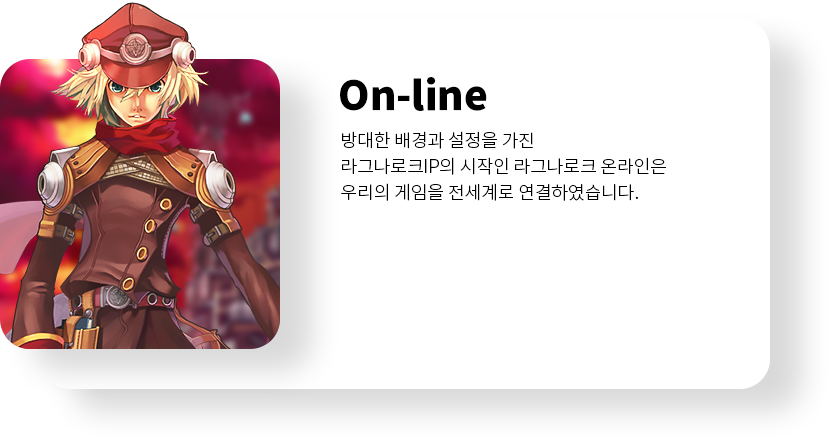
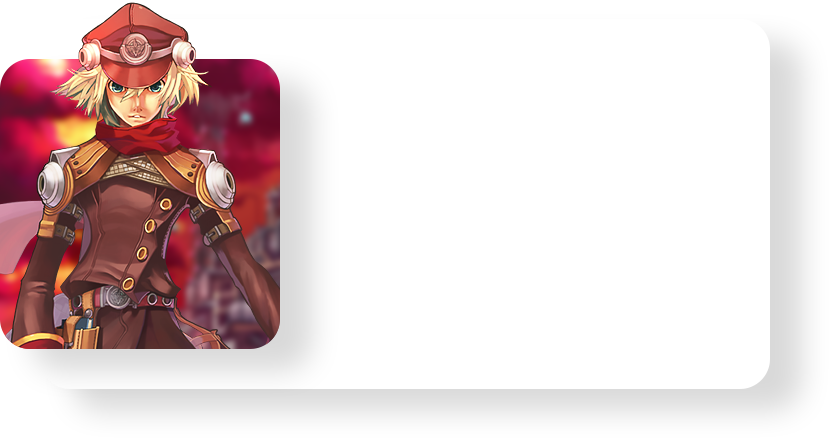
용범님꺼 2차
용범님꺼 2차

Changed region(s): [[0.392, 0.2968, 0.8142, 0.4749], [0.392, 0.1781, 0.6031, 0.2671]]

diff --git a/InteractiveWEB/01/gsapIntro/example-dragon/css/common.scss b/InteractiveWEB/01/gsapIntro/example-dragon/css/common.scss
@@ -19,6 +19,13 @@
   font-style: normal;
 }
 
+@font-face {
+  font-family: 'GmarketSansBold';
+  src: url('https://cdn.jsdelivr.net/gh/projectnoonnu/noonfonts_2001@1.1/GmarketSansBold.woff') format('woff');
+  font-weight: normal;
+  font-style: normal;
+}
+
 
 
 body { /* overflow: hidden;*/  }
@@ -77,7 +84,7 @@ section {
     // div.block4 { width: 100%; }
     
     div.blockFinal { margin-bottom: 0; width: 400px; height: 300px; position: absolute; left: 50%; top: 50%; transform: translate(-50%, -50%); z-index: 8;
-      h1 { font-family: "GmarketSansMedium"; font-size: 70px; position: absolute; z-index: 9; font-weight: 1000; left: 50%; top: 30%; transform: translate(-50%,-50%); text-align: center; line-height: 1.0; opacity: 0; }
+      h1 { font-family: "GmarketSansBold"; font-size: 70px; position: absolute; z-index: 9; font-weight: 1000; left: 50%; top: 30%; transform: translate(-50%,-50%); text-align: center; line-height: 1.0; opacity: 0; }
       p { font-size: 24px; position: absolute; z-index: 9; font-weight: 500; left: 50%; top: 41%; transform: translate(-50%, -50%); text-align: center; line-height: 1.2;  opacity: 0; }
       img.contentWrapImg { width: 100%; height: 100%; }
 
@@ -86,12 +93,21 @@ section {
       }
       &--onlineBox{
         position: absolute; top: 65%; left: 50%; transform: translate(-50%, -50%) scale(1); z-index: 5; opacity: 0; transform-origin: 50% 50%;
+        h3 { opacity: 1; text-align: left; left: 41%; transform: translate(0, 0); top: 15%; font-size: 41px; line-height: 1.4; position: absolute; font-weight: bold; z-index: 2;  }
+        p { opacity: 1; text-align: left; left: 41%; transform: translate(0,0); top: 29%; font-size: 18px; line-height: 1.4; }
+        a.btn-more { left: 41%; position: absolute; top: 50%; }
       }
       &--mobileBox{
-        position: absolute; top: 65%; left: 95%; transform: translate(-50%, -50%) scale(0.7); z-index: 5; opacity: 0; transform-origin: 50% 50%;
+        position: absolute; top: 65%; left: 95%; transform: translate(-50%, -50%) scale(0.6); z-index: 5; opacity: 0; transform-origin: 50% 50%;
+        h3 { opacity: 1; text-align: left; left: 41%; transform: translate(0, 0); top: 15%; font-size: 41px; line-height: 1.4; position: absolute; font-weight: bold; z-index: 2;  }
+        p { opacity: 1; text-align: left; left: 41%; transform: translate(0,0); top: 29%; font-size: 18px; line-height: 1.4; }
+        a.btn-more { left: 41%; position: absolute; top: 50%; }
       }
       &--ipTVBox{
-        position: absolute; top: 65%; left: 130%; transform: translate(-50%, -50%) scale(0.7); z-index: 5; opacity: 0; transform-origin: 50% 50%;
+        position: absolute; top: 65%; left: 130%; transform: translate(-50%, -50%) scale(0.6); z-index: 5; opacity: 0; transform-origin: 50% 50%;
+        h3 { opacity: 1; text-align: left; left: 41%; transform: translate(0, 0); top: 12%; font-size: 41px; line-height: 1.4; position: absolute; font-weight: bold; z-index: 2;  }
+        p { opacity: 1; text-align: left; left: 41%; transform: translate(0,0); top: 27%; font-size: 18px; line-height: 1.4; }
+        a.btn-more { left: 41%; position: absolute; top: 50%; }
       }
 
       &--dim {    
@@ -141,7 +157,7 @@ section {
 
   .sectionRecruit { 
 
-    &--title { font-family: "GmarketSansMedium"; font-size: 70px; position: relative; z-index: 9; font-weight: 1000; left: 0%; top: 0%; transform: translate(0%,0%); text-align: center; line-height: 1.0; opacity: 1; }
+    &--title { font-family: "GmarketSansBold"; font-size: 70px; position: relative; z-index: 9; font-weight: 1000; left: 0%; top: 0%; transform: translate(0%,0%); text-align: center; line-height: 1.0; opacity: 1; }
     &--explanation { font-size: 24px; position: relative; margin-top: 30px; z-index: 9; font-weight: 500; left: 0%; top: 0%; transform: translate(0%, 0%); text-align: center; line-height: 1.2;  opacity: 1; }
     
     &__buttonWrap {

diff --git a/InteractiveWEB/01/gsapIntro/example-dragon/css/common.css b/InteractiveWEB/01/gsapIntro/example-dragon/css/common.css
@@ -16,6 +16,12 @@
   font-weight: normal;
   font-style: normal;
 }
+@font-face {
+  font-family: "GmarketSansBold";
+  src: url("https://cdn.jsdelivr.net/gh/projectnoonnu/noonfonts_2001@1.1/GmarketSansBold.woff") format("woff");
+  font-weight: normal;
+  font-style: normal;
+}
 body { /* overflow: hidden;*/ }
 
 section {
@@ -151,7 +157,7 @@ section .mainNextContent div.blockFinal {
   z-index: 8;
 }
 section .mainNextContent div.blockFinal h1 {
-  font-family: "GmarketSansMedium";
+  font-family: "GmarketSansBold";
   font-size: 70px;
   position: absolute;
   z-index: 9;
@@ -195,23 +201,101 @@ section .mainNextContent div.blockFinal--onlineBox {
   opacity: 0;
   transform-origin: 50% 50%;
 }
+section .mainNextContent div.blockFinal--onlineBox h3 {
+  opacity: 1;
+  text-align: left;
+  left: 41%;
+  transform: translate(0, 0);
+  top: 15%;
+  font-size: 41px;
+  line-height: 1.4;
+  position: absolute;
+  font-weight: bold;
+  z-index: 2;
+}
+section .mainNextContent div.blockFinal--onlineBox p {
+  opacity: 1;
+  text-align: left;
+  left: 41%;
+  transform: translate(0, 0);
+  top: 29%;
+  font-size: 18px;
+  line-height: 1.4;
+}
+section .mainNextContent div.blockFinal--onlineBox a.btn-more {
+  left: 41%;
+  position: absolute;
+  top: 50%;
+}
 section .mainNextContent div.blockFinal--mobileBox {
   position: absolute;
   top: 65%;
   left: 95%;
-  transform: translate(-50%, -50%) scale(0.7);
+  transform: translate(-50%, -50%) scale(0.6);
   z-index: 5;
   opacity: 0;
   transform-origin: 50% 50%;
+}
+section .mainNextContent div.blockFinal--mobileBox h3 {
+  opacity: 1;
+  text-align: left;
+  left: 41%;
+  transform: translate(0, 0);
+  top: 15%;
+  font-size: 41px;
+  line-height: 1.4;
+  position: absolute;
+  font-weight: bold;
+  z-index: 2;
+}
+section .mainNextContent div.blockFinal--mobileBox p {
+  opacity: 1;
+  text-align: left;
+  left: 41%;
+  transform: translate(0, 0);
+  top: 29%;
+  font-size: 18px;
+  line-height: 1.4;
+}
+section .mainNextContent div.blockFinal--mobileBox a.btn-more {
+  left: 41%;
+  position: absolute;
+  top: 50%;
 }
 section .mainNextContent div.blockFinal--ipTVBox {
   position: absolute;
   top: 65%;
   left: 130%;
-  transform: translate(-50%, -50%) scale(0.7);
+  transform: translate(-50%, -50%) scale(0.6);
   z-index: 5;
   opacity: 0;
   transform-origin: 50% 50%;
+}
+section .mainNextContent div.blockFinal--ipTVBox h3 {
+  opacity: 1;
+  text-align: left;
+  left: 41%;
+  transform: translate(0, 0);
+  top: 12%;
+  font-size: 41px;
+  line-height: 1.4;
+  position: absolute;
+  font-weight: bold;
+  z-index: 2;
+}
+section .mainNextContent div.blockFinal--ipTVBox p {
+  opacity: 1;
+  text-align: left;
+  left: 41%;
+  transform: translate(0, 0);
+  top: 27%;
+  font-size: 18px;
+  line-height: 1.4;
+}
+section .mainNextContent div.blockFinal--ipTVBox a.btn-more {
+  left: 41%;
+  position: absolute;
+  top: 50%;
 }
 section .mainNextContent div.blockFinal--dim {
   display: none;
@@ -354,7 +438,7 @@ section .mainNextContent--item20 {
   z-index: 3;
 }
 section .sectionRecruit--title {
-  font-family: "GmarketSansMedium";
+  font-family: "GmarketSansBold";
   font-size: 70px;
   position: relative;
   z-index: 9;

diff --git a/InteractiveWEB/01/gsapIntro/example-dragon/js/main.js b/InteractiveWEB/01/gsapIntro/example-dragon/js/main.js
@@ -10,7 +10,7 @@ gsap.registerPlugin(ScrollTrigger, ScrollSmoother, MotionPathPlugin);
 
 // 스크롤 스무터 구동.
 let smoother = ScrollSmoother.create({
-    smooth: 3,   
+    smooth: 1,   
     effects: true
   });
 
@@ -116,14 +116,6 @@ init();
     .from(".mainNextContent--item14", { top : "60%", ease : "none",},"<")
     .to(".block4", { top : "-89%", ease : "none",},"<")
     
-    
-    // .to(".block3", { top : "-129%", ease : "none",},"<+=0.5")
-    // .to(".block4", { top : "-110%", ease : "none",},"<")
-
-    // .set(".blockFinal", {  xPercent:-50, yPercent:-50, },"<")
-
-
-    // .set(".block4", { width : "100%", height :"100vh", duration: 0.5, ease: "" },"<")
 
     .set(".blockFinal", { width : "400px",duration: 0.5, ease: "" },"<")
     .to(".blockFinal", { xPercent:-50, yPercent:-66, width : "100%", height : "100vh",  duration: 0.5, ease: "" },"<+=0.5")
@@ -142,14 +134,20 @@ init();
     .to(".blockFinal--mobileBox", { opacity :1, xPercent : -50, y:10, ease: "" },"<")
     .to(".blockFinal--ipTVBox", { opacity :1, xPercent : -50, y:10, ease: "" },"<")
 
-    .to(".blockFinal--onlineBox", { left : "5%", duration : 0.5, ease: "none", scale : 0.7 },"<+=0.7")
+    .to(".blockFinal--onlineBox", { left : "5%", duration : 0.5, ease: "none", scale : 0.6 },"<+=0.7")
     .to(".blockFinal--mobileBox", { left : "50%", duration : 0.5, ease: "none", scale : 1 },"<")
-    .to(".blockFinal--ipTVBox", { left : "95%", duration : 0.5, ease: "none", scale : 0.7 },"<")
+    .to(".blockFinal--ipTVBox", { left : "95%", duration : 0.5, ease: "none", scale : 0.6 },"<")
             
 
-    .to(".blockFinal--onlineBox", { left : "-50%", duration : 0.5, ease: "none", scale : 0.7 },"<+=0.7")
-    .to(".blockFinal--mobileBox", { left : "-10%", duration : 0.5, ease: "none", scale : 0.7 },"<")
+    .to(".blockFinal--onlineBox", { left : "-50%", duration : 0.5, ease: "none", scale : 0.6 },"<+=0.7")
+    .to(".blockFinal--mobileBox", { left : "-10%", duration : 0.5, ease: "none", scale : 0.6 },"<")
     .to(".blockFinal--ipTVBox", { left : "50%", duration : 0.5, ease: "none", scale : 1 },"<")
+    
+
+
+    // .to(".blockFinal--onlineBox", { left : "-90%", duration : 0.5, ease: "none", scale : 0.6 },"<")
+    // .to(".blockFinal--mobileBox", { left : "-50%", duration : 0.5, ease: "none", scale : 0.6 },"<")
+    // .to(".blockFinal--ipTVBox", { left : "-10%", duration : 0.5, ease: "none", scale : 0.6 },"<")
             
     
 

diff --git a/InteractiveWEB/01/gsapIntro/example-dragon/index.html b/InteractiveWEB/01/gsapIntro/example-dragon/index.html
@@ -122,15 +122,42 @@
               새로운 IP 개발을 통한 다양한 콘텐츠로 더욱 넓은 세상을 향해 늘 도전합니다.
             </p>
 
-            <div>                          
-            </div>
+
+
               <div class="blockFinal--onlineBox">
+                <h3>
+                  On-line
+                </h3>
+                <p>
+                  방대한 배경과 설정을 가진 <br />
+                  라그나로크IP의 시작인 라그나로크 온라인은 <br />
+                  우리의 게임을 전세계로 연결하였습니다. 
+                </p>
+                <a href="#" class="btn-more"></a>
                 <img src="images/section2/img-online.png" alt="online">
               </div>
               <div class="blockFinal--mobileBox">
+                <h3>
+                  mobile
+                </h3>
+                <p>
+                  RPG, 수집, 택틱스 등의 <br />
+                다양한 장르의 모바일 게임은 <br />
+                세상이 우리를 주목하게 만들었습니다.
+                </p>
+                <a href="#" class="btn-more"></a>
                 <img src="images/section2/img-mobile.png" alt="mobile">
               </div>
               <div class="blockFinal--ipTVBox">
+                <h3>
+                  IPTV
+                </h3>
+                <p>
+                  두뇌 및 재능 개발을 목적으로 한 <br />
+                  영유아가 즐길 수 있는 IPTV 게임을 통해 <br />
+                  지속적인 게임 콘텐츠의 확장을 선보였습니다. 
+                </p>
+                <a href="#" class="btn-more"></a>
                 <img src="images/section2/img-ipTV.png" alt="ipTV">
               </div>
 
@@ -175,12 +202,7 @@
           그라비티 게임은 전세계를 사로잡은 라그나로크IP를 기반으로 장르를 확장하고 <br />
           새로운 IP 개발을 통한 다양한 콘텐츠로 더욱 넓은 세상을 향해 늘 도전합니다.
         </p>
-        <!-- <div class="content--imgBeforeAfterBox">
 
-          <img src="images/section3/img-recruit-before.png" alt="recruit">
-          <img src="images/section3/img-recruit-after.png" alt="recruit">
-
-        </div> -->
 
         <div class="splitview skewed">
           <div class="panel bottom">
